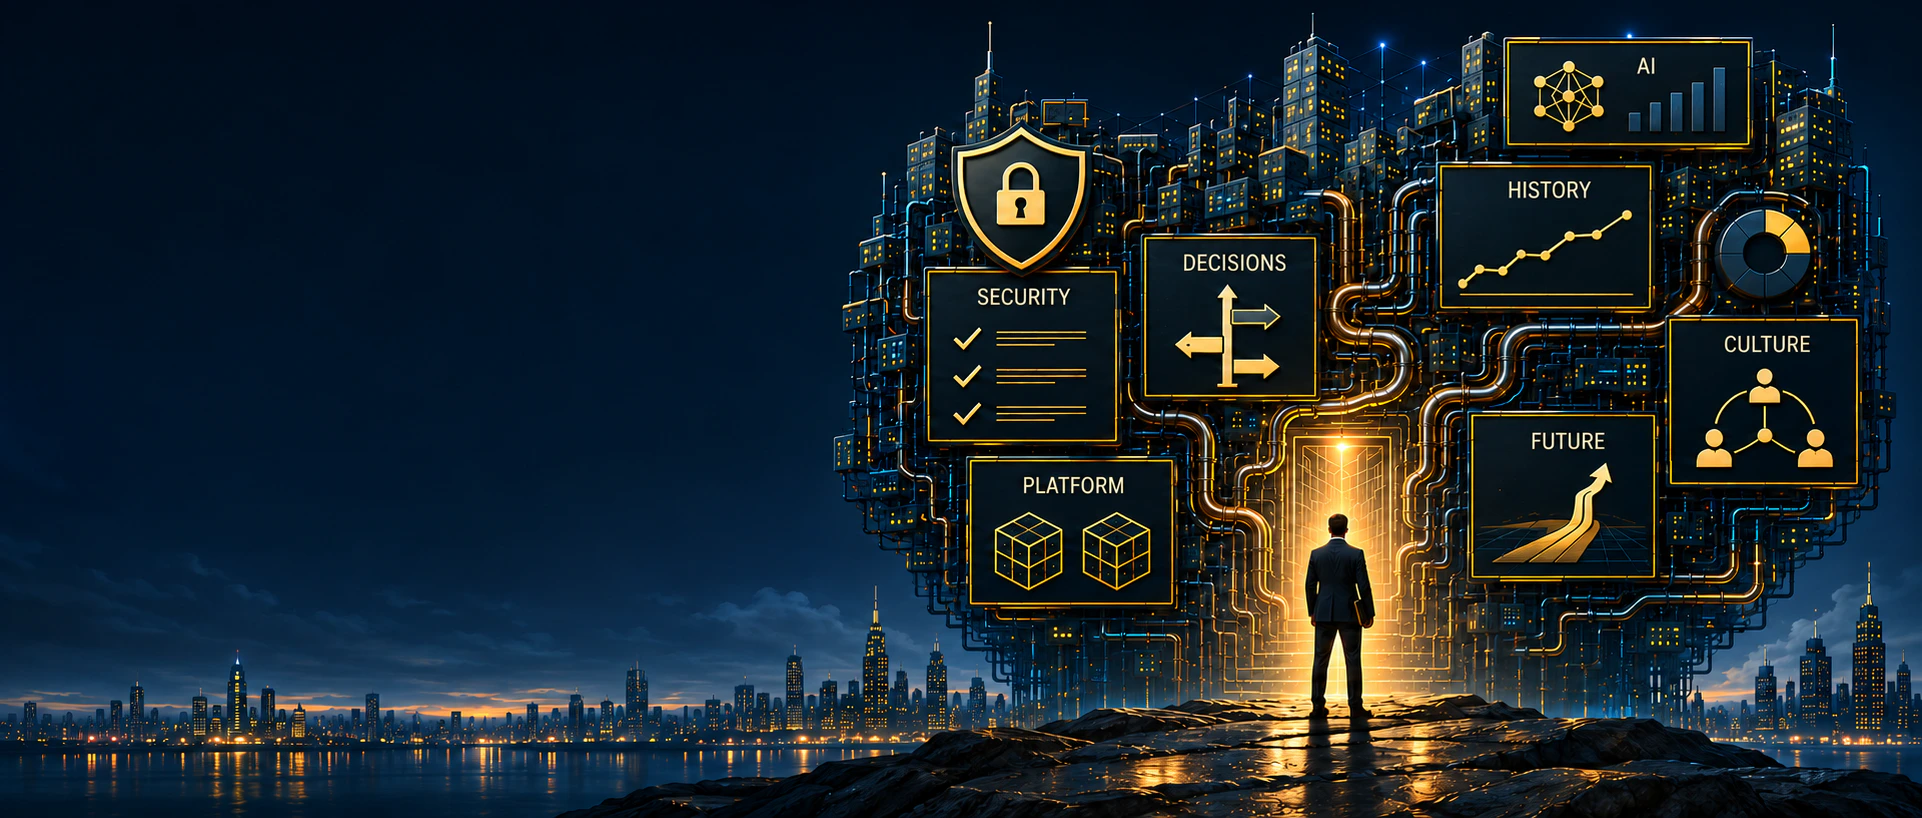
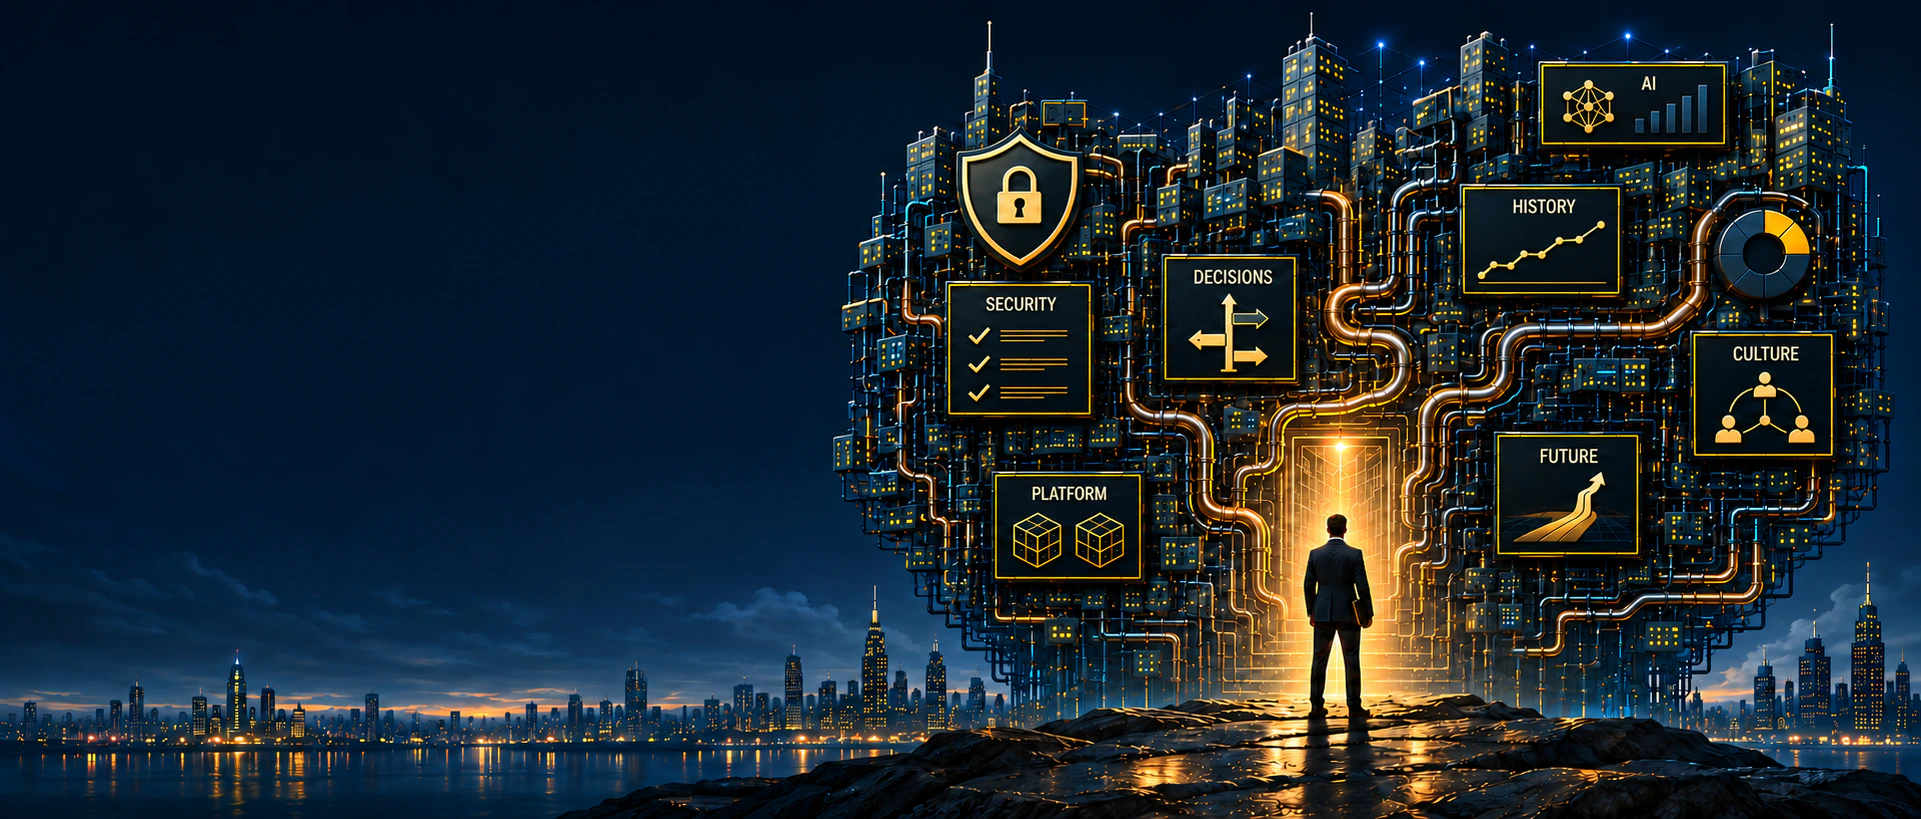
Reduce hero instrument panels to better match book cover

Changed region(s): [[0.0, 0.0306, 1.0, 1.0], [0.7808, 0.978, 0.8121, 1.0]]

diff --git a/index.html b/index.html
@@ -70,7 +70,7 @@
     <main id="main-content">
 
       <section class="threshold" aria-labelledby="book-title">
-        <picture class="threshold-art"><source media="(max-width: 680px)" srcset="assets/city-portal-mobile.webp?v=2"><img src="assets/city-portal.webp?v=2" width="1922" height="818" alt="" fetchpriority="high"></picture>
+        <picture class="threshold-art"><source media="(max-width: 680px)" srcset="assets/city-portal-mobile.webp?v=3"><img src="assets/city-portal.webp?v=3" width="1922" height="818" alt="" fetchpriority="high"></picture>
         <div class="shell threshold-inner">
           <p class="threshold-line">Technology changes.<br><strong>People adapt.</strong></p>
           <h1 id="book-title"><img src="assets/book-wordmark.webp" width="1185" height="192" alt="5,000 Days"></h1>
